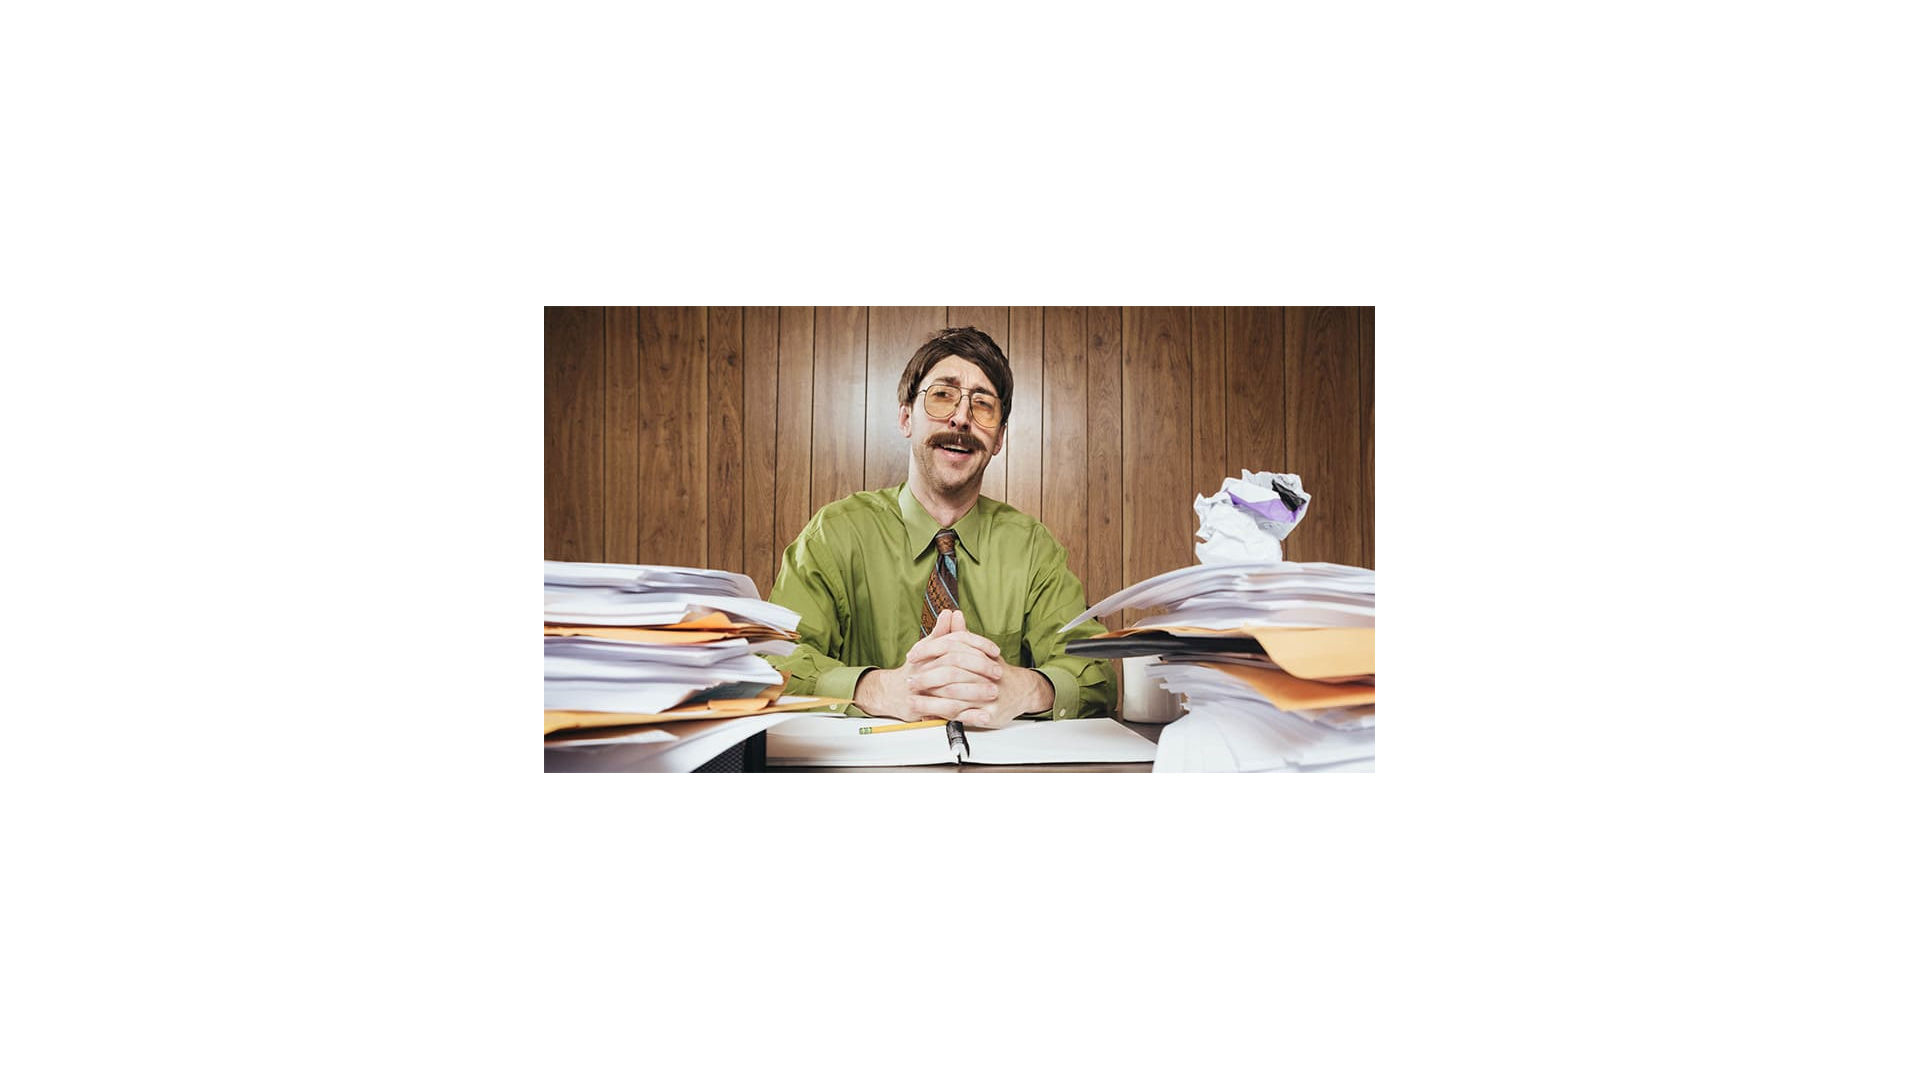
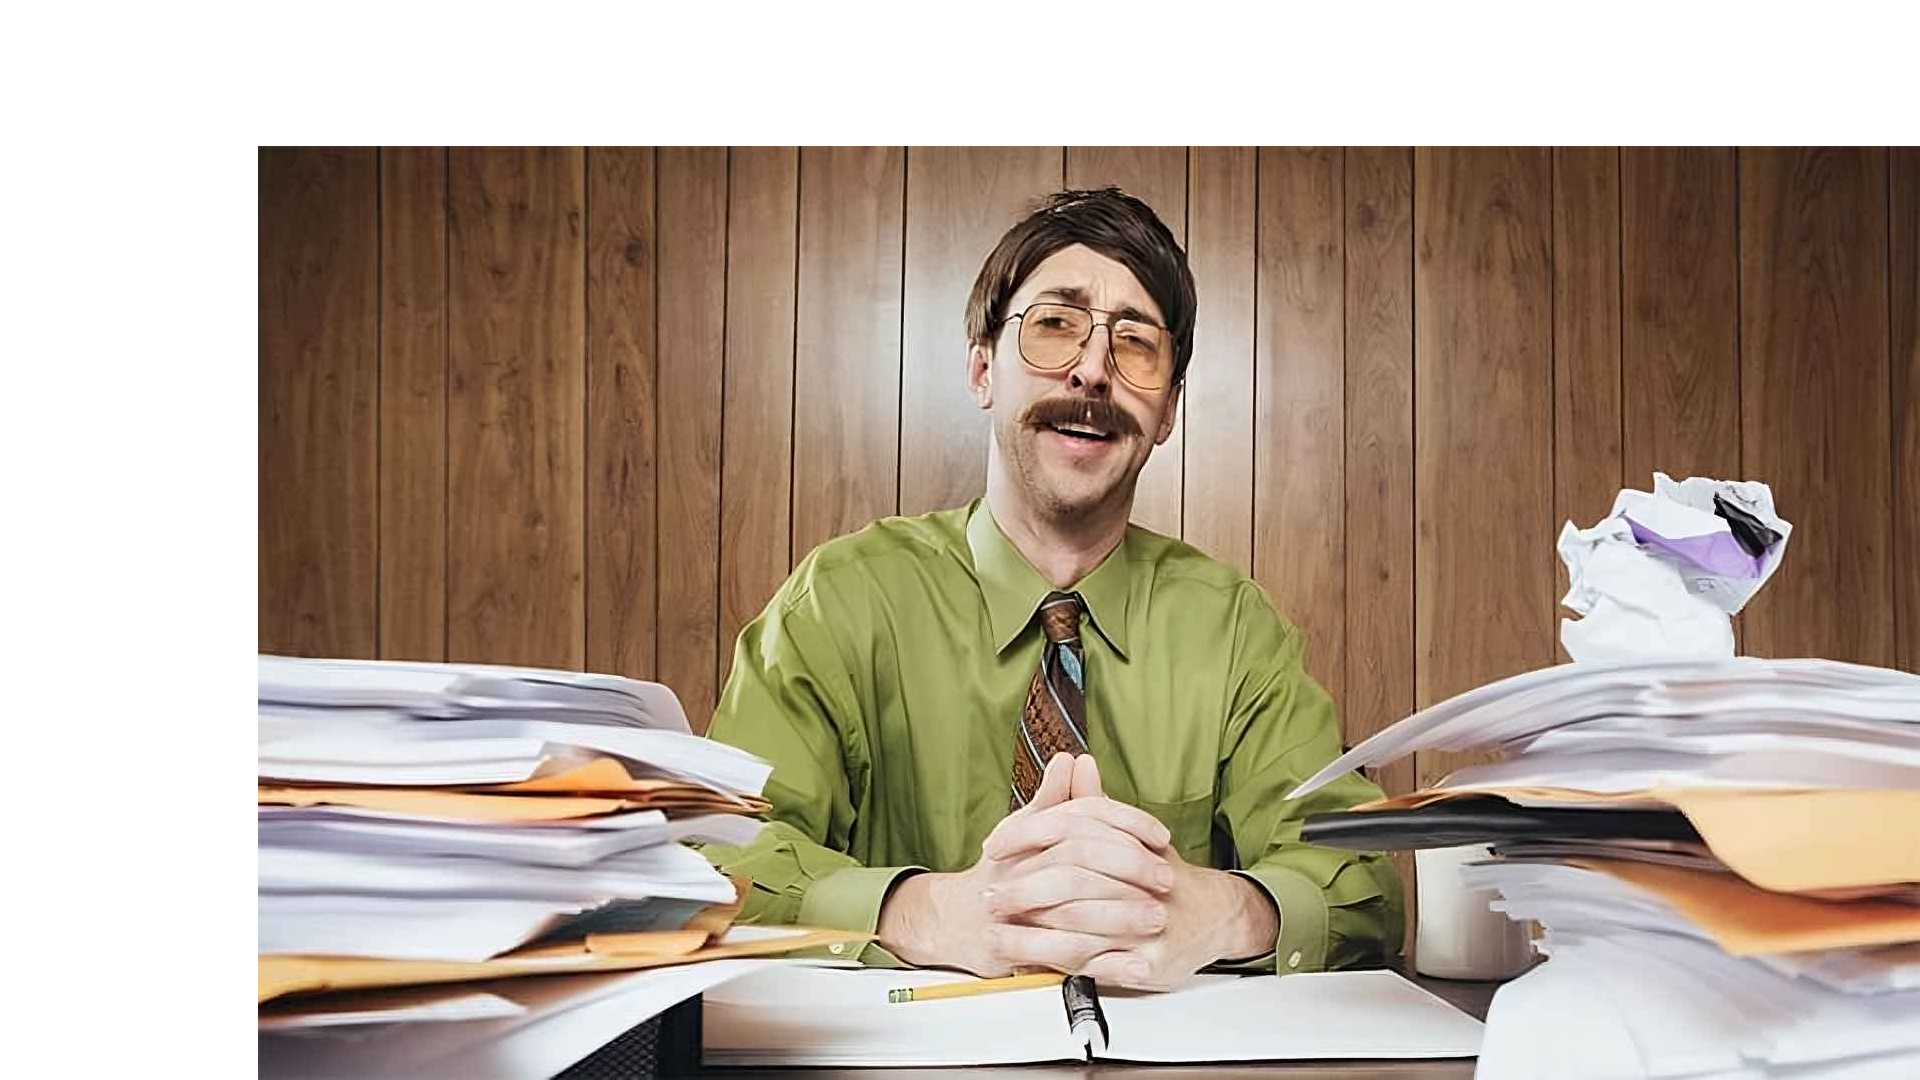
Update blend_aligned_ui parameters for improved default values and rename alignment values variable

diff --git a/visual_test/blend_aligned_ui.py b/visual_test/blend_aligned_ui.py
@@ -6,13 +6,13 @@ from photoff import RGBA, CudaImage
 from typing import Annotated
 from functogui import App, imageFileReturn, fileUi, intUi, listUi, colorUi
 
-values = ["center", "top", "bottom", "left", "right", "top-left", "top-right", "bottom-left", "bottom-right"]
+alignment_values = ["center", "top", "bottom", "left", "right", "top-left", "top-right", "bottom-left", "bottom-right"]
 
 def blend_aligned_ui(image: Annotated[str, fileUi] = "./assets/stock.jpg",
-                     canvas_width: Annotated[int, intUi(min_value=100, max_value=1920)] = 800,
-                     canvas_height: Annotated[int, intUi(min_value=100, max_value=1080)] = 600,
+                     canvas_width: Annotated[int, intUi(min_value=100, max_value=1920)] = 1920,
+                     canvas_height: Annotated[int, intUi(min_value=100, max_value=1080)] = 1080,
                      canvas_color: Annotated[tuple[int, int, int, int], colorUi] = (255, 255, 255, 255),
-                     alignment: Annotated[str, listUi(values=values)] = "center",
+                     alignment: Annotated[str, listUi(values=alignment_values)] = "center",
                      offset_x: Annotated[int, intUi(min_value=-500, max_value=500)] = 0,
                      offset_y: Annotated[int, intUi(min_value=-500, max_value=500)] = 0
                      ) -> Annotated[str, imageFileReturn]:
